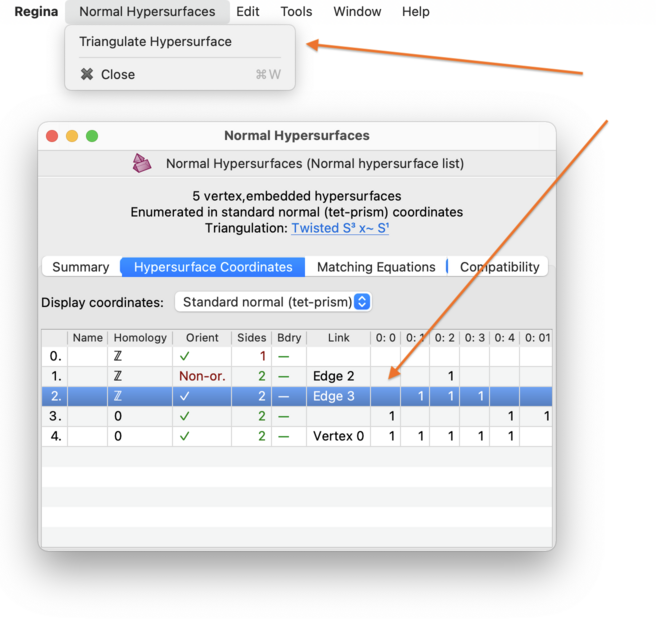
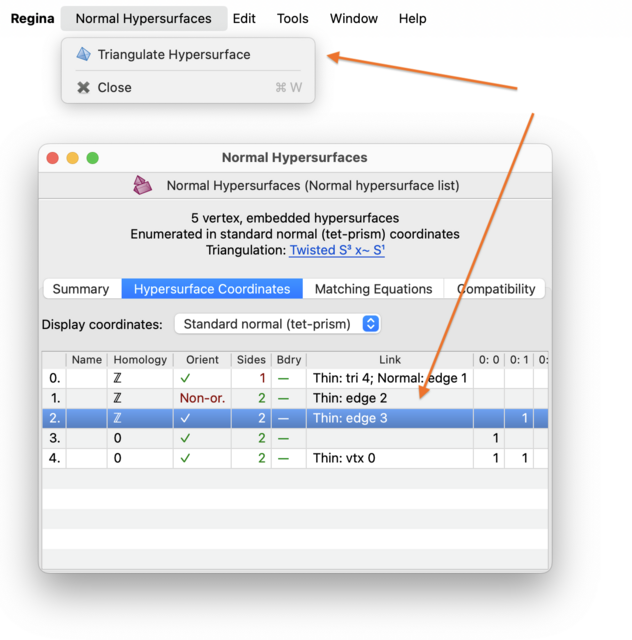
Update screenshots for the normal surfaces chapter, and tweak some UI actions.

Changed region(s): [[0.0, 0.0, 0.932, 0.9349], [0.0601, 0.3016, 0.0902, 0.3317]]

diff --git a/qtui/src/packets/surfacescoordinateui.cpp b/qtui/src/packets/surfacescoordinateui.cpp
@@ -564,7 +564,7 @@ SurfacesCoordinateUI::SurfacesCoordinateUI(
     actCutAlong->setToolTip(tr("Cut the triangulation along the "
         "selected surface"));
     actCutAlong->setEnabled(false);
-    actCutAlong->setWhatsThis(tr("<qt>Cuts open the surround triangulation "
+    actCutAlong->setWhatsThis(tr("Cuts open the surround triangulation "
         "along the selected surface.  This triangulation will not "
         "be changed; instead a new cut-open triangulation will be created.<p>"
         "This operation will never change the topology of the underlying "
@@ -572,7 +572,7 @@ SurfacesCoordinateUI::SurfacesCoordinateUI(
         "the related <i>crushing</i> operation, which might).  However, "
         "because the new surface boundaries are created from real "
         "boundary triangles, the resulting number of tetrahedra might be very "
-        "large.</qt>"));
+        "large."));
     connect(actCutAlong, SIGNAL(triggered()), this, SLOT(cutAlong()));
     surfaceActionList.push_back(actCutAlong);
 
@@ -580,7 +580,7 @@ SurfacesCoordinateUI::SurfacesCoordinateUI(
     actCrush->setText("Crus&h Surface");
     actCrush->setToolTip(tr("Crush the selected surface to a point"));
     actCrush->setEnabled(false);
-    actCrush->setWhatsThis(tr("<qt>Crushes the selected surface to a point "
+    actCrush->setWhatsThis(tr("Crushes the selected surface to a point "
         "within the surrounding triangulation.  This triangulation will not "
         "be changed; instead a new crushed triangulation will be created.<p>"
         "<b>Warning:</b> This routine simply removes all tetrahedra "
@@ -588,7 +588,7 @@ SurfacesCoordinateUI::SurfacesCoordinateUI(
         "appropriately.  In some circumstances this might change the "
         "topology of the underlying 3-manifold beyond just slicing along "
         "the surface and shrinking the resulting boundary/boundaries "
-        "to points.</qt>"));
+        "to points."));
     surfaceActionList.push_back(actCrush);
     connect(actCrush, SIGNAL(triggered()), this, SLOT(crush()));
 

diff --git a/qtui/src/packets/hypercoordinateui.cpp b/qtui/src/packets/hypercoordinateui.cpp
@@ -453,15 +453,15 @@ HyperCoordinateUI::HyperCoordinateUI(
 
     actTriangulate = new QAction(this);
     actTriangulate->setText(tr("&Triangulate Hypersurface"));
-    actTriangulate->setToolTip(tr("Builds a 3-manifold triangulation "
-        "of the selected hypersurface"));
+    actTriangulate->setIcon(ReginaSupport::regIcon("packet_triangulation3"));
+    actTriangulate->setToolTip(tr("Triangulate the selected hypersurface"));
     actTriangulate->setEnabled(false);
-    actTriangulate->setWhatsThis(tr("<qt>Builds a 3-manifold triangulation "
+    actTriangulate->setWhatsThis(tr("Builds a 3-manifold triangulation "
         "of the selected hypersurface.<p>"
         "The new triangulation will have the same <i>topology</i> as the "
         "selected hypersurface.  However, it will be simplified, "
         "which means that information about the <i>combinatorics</i> "
-        "of the hypersurface will be lost.</qt>"));
+        "of the hypersurface will be lost."));
     connect(actTriangulate, SIGNAL(triggered()), this, SLOT(triangulate()));
     surfaceActionList.push_back(actTriangulate);
 
